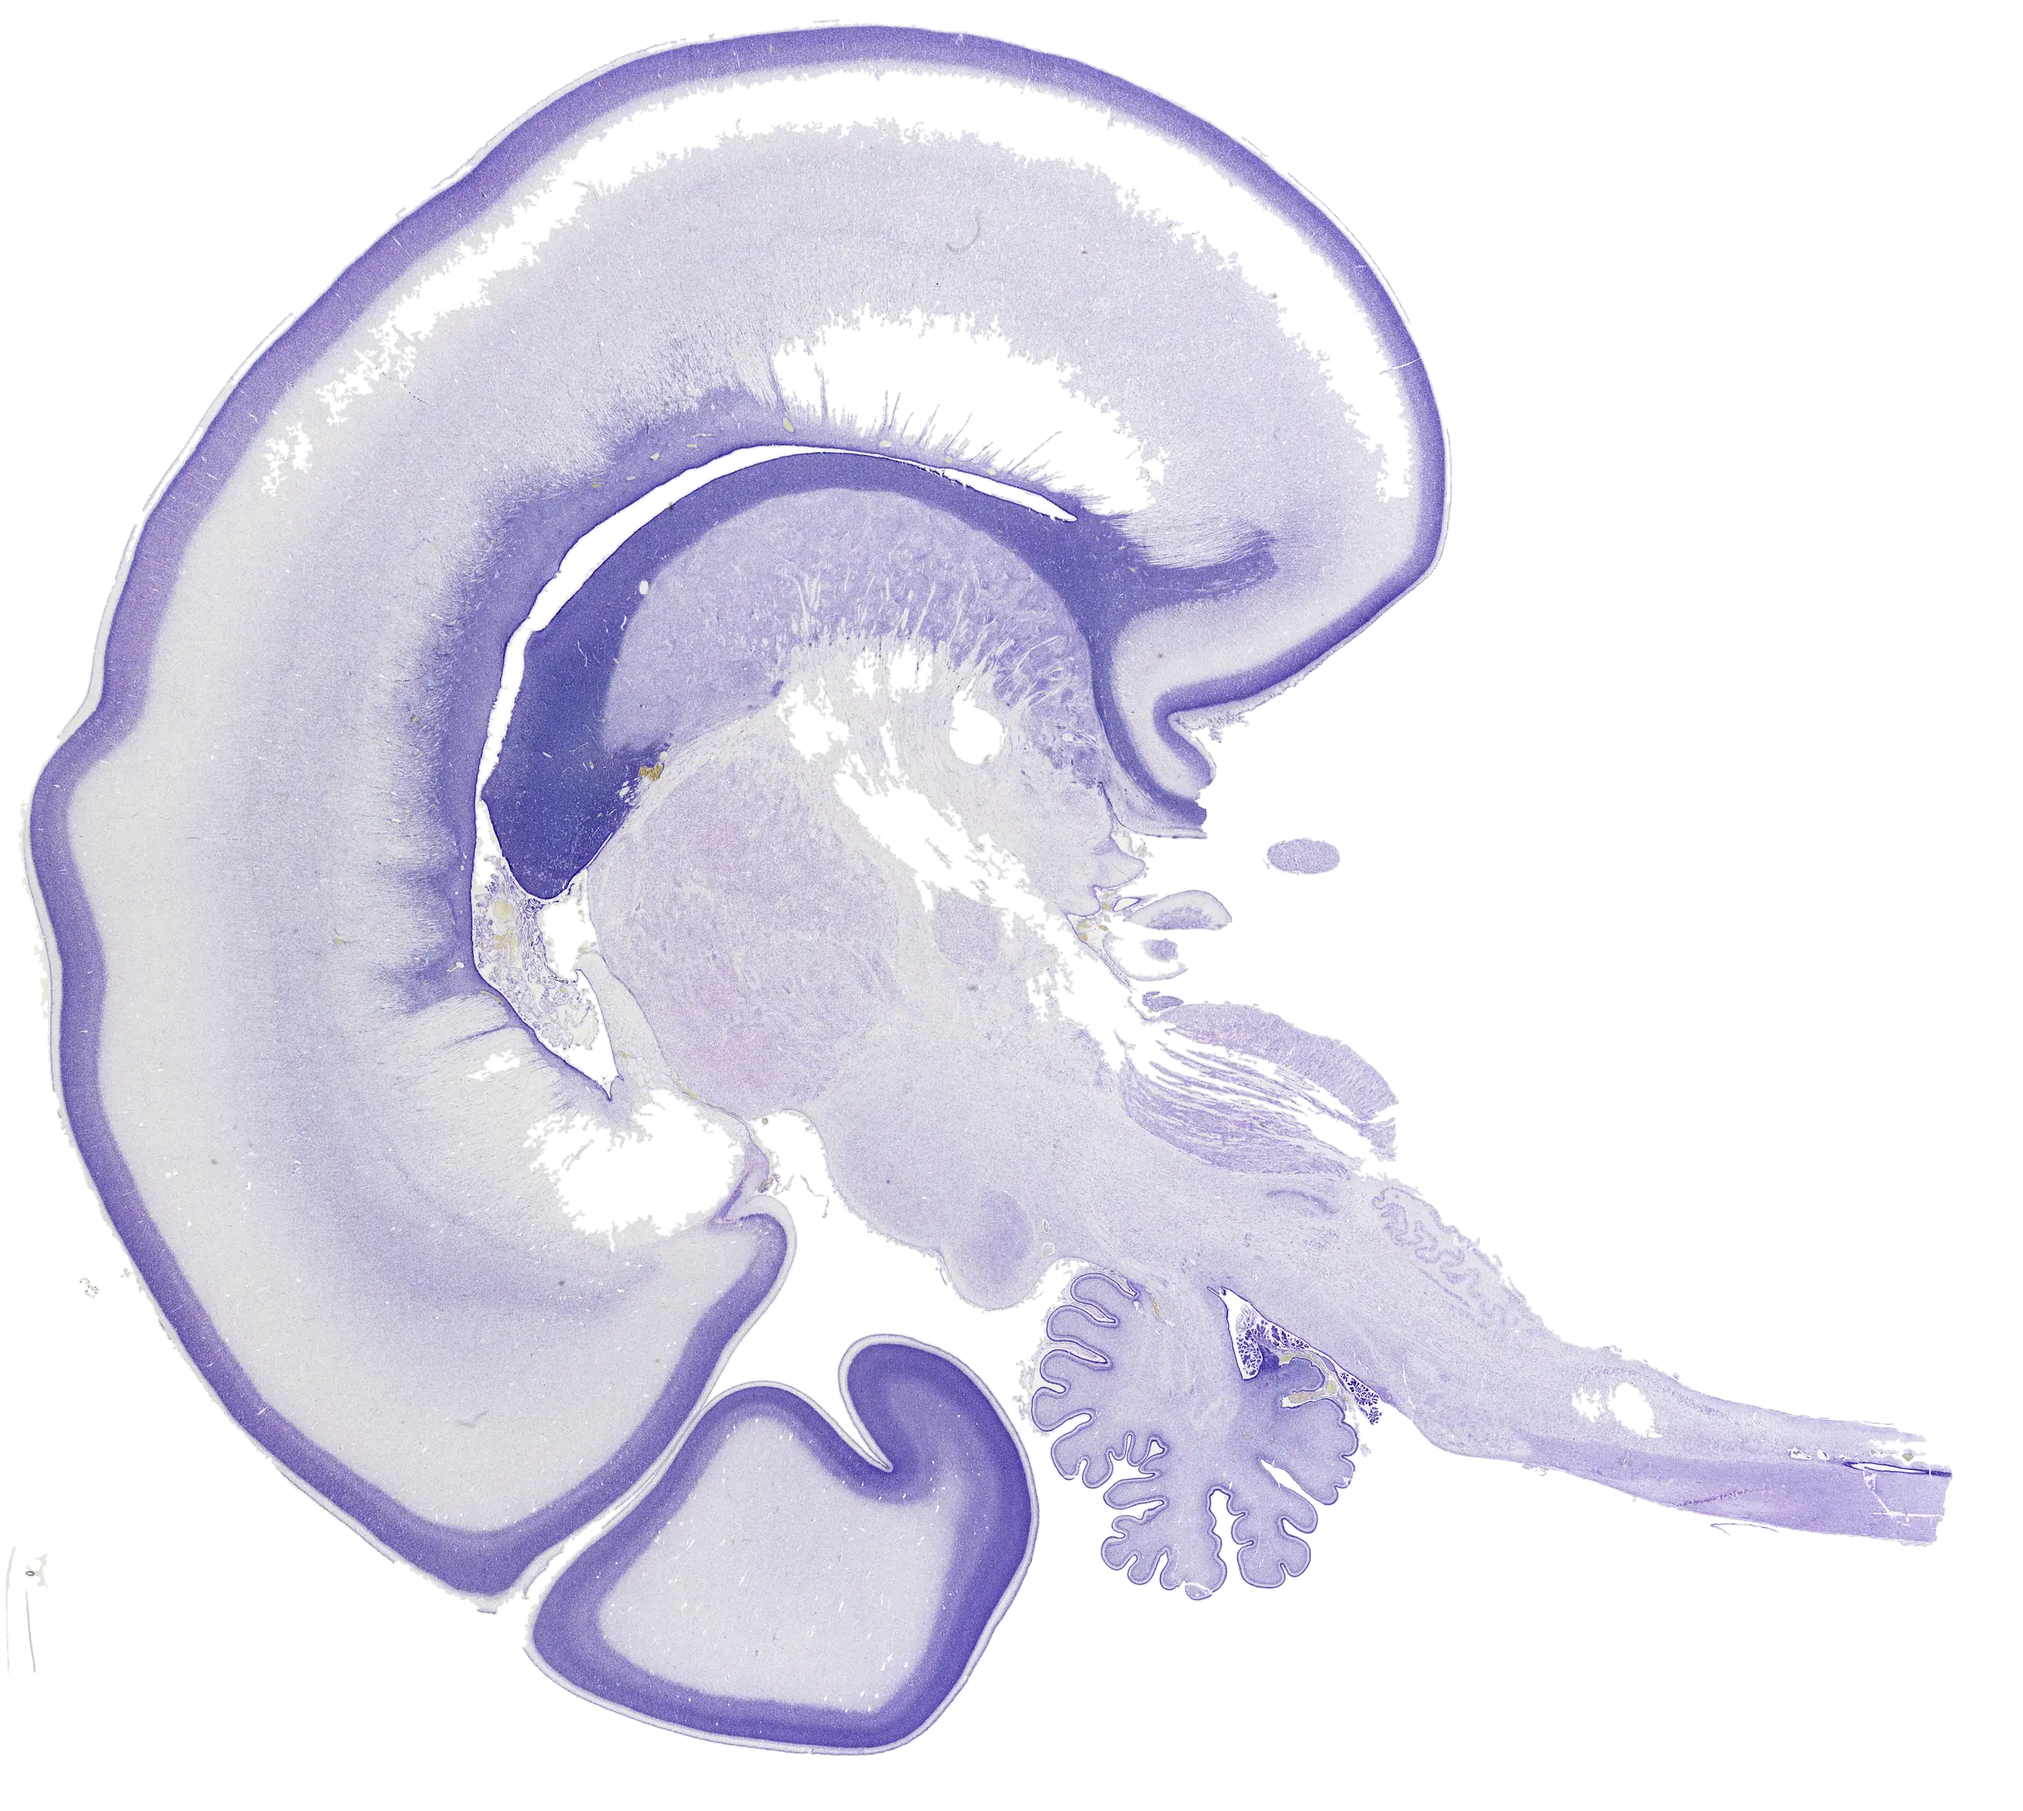
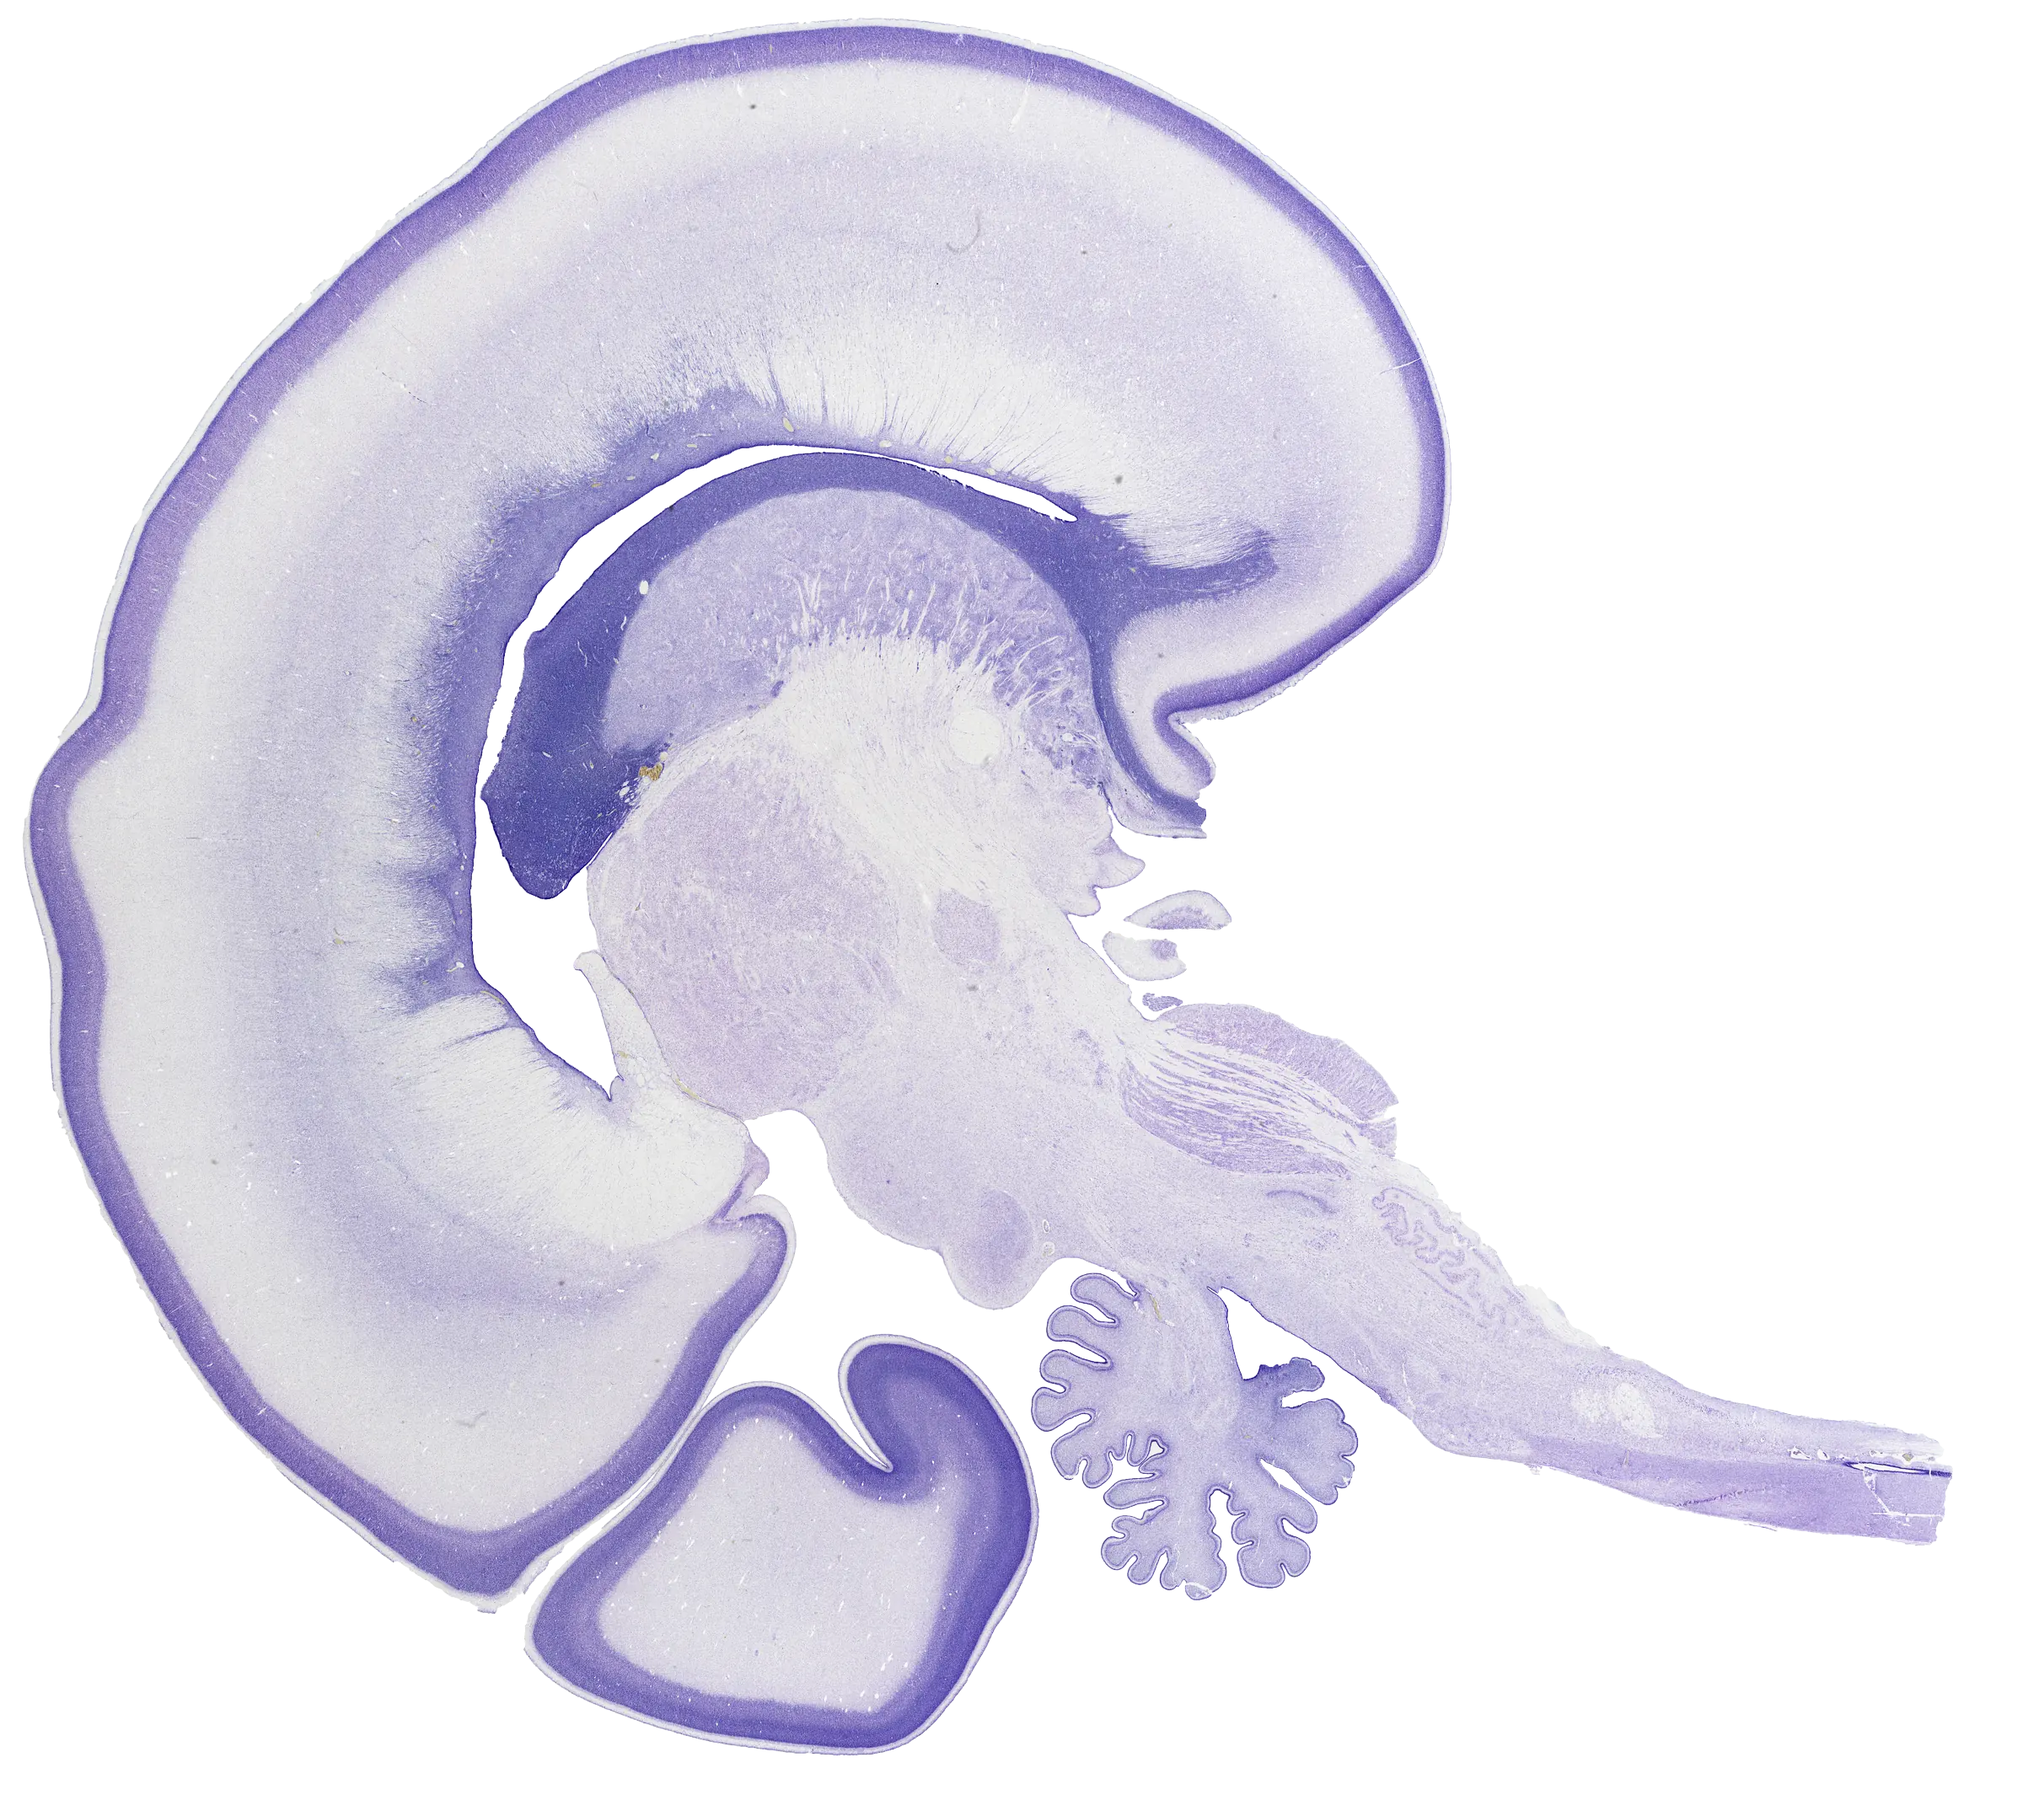
Centre the column again; tissue-only zooms from the nnU-Net tissue mask
The 100 px left shift is undone (the column is centred, still one left edge for every
block). Both ganglionic-eminence zooms now draw only tissue. The Nissl mask is the
mcmadras nnU-Net tissue model (Dataset510) predicted on this section, the
pseudo-fluorescence mask is the blurred signal; for both, every hole except the
ventricle is filled, loose strands are cut, and the edge comes from a smoothed signed
distance resampled at each zoom level, so it stays smooth from the whole section down
to single cells. Each panel starts without a box and its frame (white or black)
fades in as it zooms; the scale bar follows the page colours until a frame is behind it.

diff --git a/assets/style.css b/assets/style.css
@@ -175,8 +175,8 @@ a.card:hover { border-color: var(--accent); transform: translateY(-2px); text-de
 
 /* Hero: text on a plate on the left, the brain on the right.  The hero, About and the research intro
    share the left edge of the research chapters (the 1240 px column below). */
-/* --shift moves the whole 1240 px column left of centre (try ?shift=0 in the URL to compare) */
-:root { --shift: 100px; }
+/* --shift moves the whole 1240 px column left of centre (0 = centred) */
+:root { --shift: 0px; }
 .hero.wrap, .wrap.wide, .chapter.wrap, .zoom-block.wrap, .scrub-block.wrap, .cyto-figs.wrap {
   max-width: 1240px; width: 100%;
   margin-left: max(0px, calc((100% - 1240px) / 2 - var(--shift))); margin-right: auto;
@@ -250,7 +250,10 @@ a.card:hover { border-color: var(--accent); transform: translateY(-2px); text-de
   width: 100%; height: 100%; display: block; border-radius: 16px;
   border: 1px solid color-mix(in srgb, var(--line) 70%, transparent); background: #fff;
 }
-.zoomer.dark canvas { background: #000; }
+.zoomer.dark canvas {
+  background: color-mix(in srgb, #000 calc(var(--frame, 0) * 100%), transparent);
+  border-color: color-mix(in srgb, var(--line) calc(var(--frame, 0) * 100%), transparent);
+}
 .scrubber canvas { max-width: 100%; max-height: 100%; width: auto; height: 100%; display: block; }
 .zoomer figcaption, .scrubber figcaption, .figure figcaption {
   font-size: .9rem; color: var(--muted); max-width: 70ch;
@@ -262,8 +265,9 @@ a.card:hover { border-color: var(--accent); transform: translateY(-2px); text-de
   font-size: .8rem; color: #fff; text-shadow: 0 0 4px #000; pointer-events: none;
 }
 .scalebar i { display: block; height: 3px; background: #fff; box-shadow: 0 0 3px #000; border-radius: 2px; }
-.zoomer:not(.dark) .scalebar { color: var(--text); text-shadow: 0 0 4px var(--bg); }
-.zoomer:not(.dark) .scalebar i { background: var(--text); box-shadow: 0 0 3px var(--bg); }
+/* the scale bar follows the page colours until a black frame is behind it */
+.zoomer:not(.dark) .scalebar, .zoomer.dark:not(.framed) .scalebar { color: var(--text); text-shadow: 0 0 4px var(--bg); }
+.zoomer:not(.dark) .scalebar i, .zoomer.dark:not(.framed) .scalebar i { background: var(--text); box-shadow: 0 0 3px var(--bg); }
 /* tissue-only zoom: no box at first, the frame appears as it zooms in (--frame set by story.js) */
 .zoomer:not(.dark) canvas {
   background: color-mix(in srgb, var(--surface) calc(var(--frame, 0) * 100%), transparent);

diff --git a/assets/js/story.js b/assets/js/story.js
@@ -68,10 +68,11 @@
       const vh = vw * H / W;
       const s = W / vw;                               // canvas px per unit
       const x0 = cx - vw / 2, y0 = cy - vh / 2;
-      if (fig.classList.contains('dark')) { ctx.fillStyle = '#000'; ctx.fillRect(0, 0, W, H); }
-      else ctx.clearRect(0, 0, W, H);                // tissue only: the glass is transparent in the images
+      ctx.clearRect(0, 0, W, H);                     // tissue only: the glass is transparent in the images
       // the frame around the view fades in as the zoom starts, so the zoomed view reads as a window
-      fig.style.setProperty('--frame', smooth(0.15, 0.45, p).toFixed(3));
+      const frame = smooth(0.15, 0.45, p);
+      fig.style.setProperty('--frame', frame.toFixed(3));
+      fig.classList.toggle('framed', frame > 0.5);
       ctx.imageSmoothingQuality = 'high';
       for (const l of levels) {
         if (!l.img) continue;

diff --git a/index.html b/index.html
@@ -328,9 +328,6 @@
   </footer>
   <script>
     document.getElementById('year').textContent = new Date().getFullYear();
-    // preview helper: ?shift=0 (or any px) overrides how far the column sits left of centre
-    const shift = new URLSearchParams(location.search).get('shift');
-    if (shift !== null && !isNaN(+shift)) document.documentElement.style.setProperty('--shift', (+shift) + 'px');
   </script>
   <!-- Animated neuronal network background (creates its own canvas) -->
   <script src="assets/neuro.js"></script>

diff --git a/tools/media_alpha.py b/tools/media_alpha.py
@@ -1,0 +1,127 @@
+"""Tissue-only zoom levels (transparent glass) for the two section zooms of the ganglionic eminence chapter.
+
+Nissl, 24 GW (DHARANI FB85 = mcmadras sub-005, SE 1138): the tissue mask is the mcmadras nnU-Net tissue model
+(Dataset510, tight masks) predicted on the 16 um MINC of this section and mapped onto the JP2 frame (MINC = JP2
+turned 90 deg and mirrored; correlation 0.92).  Pseudo-fluorescence: glass is black, so the mask is the blurred
+signal at 16 um.
+
+For both: keep the brain and tissue pieces near it, fill every hole except the ventricles (holes > HOLE_MM2), then
+draw the alpha from a smoothed signed distance to that outline, resampled at each zoom level, so the edge is a
+smooth anti-aliased curve at every scale instead of a jagged threshold.
+
+usage: python media_alpha.py SITE_DIR NNUNET_MASK.npy
+
+NNUNET_MASK.npy (bool, JP2 frame at 16 um) was made with the mcmadras tissue model:
+  mask_nnunet/scripts/mnc_nii.py to_nii IN s005_ madras_run/sub-005/histo16um/sub-005_nissl_16um_1138.mnc
+  nnUNetv2_predict -d 510 -c 2d -f 0 -tr nnUNetTrainer_100epochs -p nnUNetPlans -chk checkpoint_final.pth -i IN -o OUT
+  then the predicted (x, y) NIfTI transposed to (y, x), turned np.rot90(k=1) and flipped up-down onto the JP2 r5 frame.
+"""
+import os, sys, json, subprocess, tempfile
+os.environ.setdefault("OMP_NUM_THREADS", "8")
+import numpy as np
+import tifffile, zarr
+from PIL import Image
+from scipy import ndimage as ndi
+from skimage import morphology
+Image.MAX_IMAGE_PIXELS = None
+SITE, NISSL_MASK = sys.argv[1], sys.argv[2]
+OPJ = "/home/users/jignesh/miniconda3/envs/nisslprop/bin/opj_decompress"
+TMP = tempfile.mkdtemp()
+PX16 = 16.0                    # um per pixel of the coarse masks
+HOLE_MM2 = 1.5                 # holes larger than this stay open (ventricles)
+NEAR_MM = 1.5                  # pieces farther than this from the brain are dropped (glass specks, labels)
+
+def clean(m, hole_mm2=HOLE_MM2, open_r=1):
+    """brain + nearby pieces, holes filled except the large ones"""
+    px_mm2 = (PX16 / 1000) ** 2
+    m = morphology.remove_small_objects(m, max_size=int(0.3 / px_mm2))
+    lab, n = ndi.label(m)
+    if n > 1:
+        sizes = ndi.sum(m, lab, range(1, n + 1))
+        brain = lab == 1 + int(np.argmax(sizes))
+        near = ndi.distance_transform_edt(~brain) * PX16 / 1000 < NEAR_MM
+        keep = np.unique(lab[near & m]); m = np.isin(lab, keep[keep > 0])
+    # cut thin strands (loose fibres, threads) before filling holes, since a strand that loops back to the brain
+    # would enclose a "hole" and be filled solid; the outline within 3 px of the opened shape is given back
+    m = m & ndi.binary_dilation(morphology.opening(m, morphology.disk(open_r)), morphology.disk(3)) if open_r > 1 \
+        else morphology.opening(m, morphology.disk(open_r))
+    m = morphology.remove_small_objects(m, max_size=int(0.3 / px_mm2))
+    return morphology.remove_small_holes(m, max_size=int(hole_mm2 / px_mm2))
+
+def sdf(m):
+    """signed distance in um (positive inside), smoothed so the 16 um staircase disappears"""
+    d = ndi.distance_transform_edt(m) - ndi.distance_transform_edt(~m)
+    return ndi.gaussian_filter(d.astype(np.float32), 1.2) * PX16
+
+def alpha_for(sd, box16, size_wh, um_px):
+    """alpha for an output image of size_wh covering box16 (x0, y0, x1, y1 in coarse-mask pixels)"""
+    w, h = size_wh
+    x0, y0, x1, y1 = box16
+    xs = x0 + (np.arange(w) + 0.5) * (x1 - x0) / w - 0.5
+    ys = y0 + (np.arange(h) + 0.5) * (y1 - y0) / h - 0.5
+    yy, xx = np.meshgrid(ys, xs, indexing="ij")
+    d = ndi.map_coordinates(sd, [yy, xx], order=3, mode="nearest")
+    edge = max(1.0, 1.1 * um_px)                     # ~1 output pixel of anti-aliasing
+    return np.clip(0.5 + d / edge, 0, 1)
+
+def save_rgba(rgb, a, path, q=76):
+    im = Image.fromarray(np.dstack([rgb, (a * 255).round()]).astype(np.uint8), "RGBA")
+    im.save(path, quality=q, alpha_quality=80, method=6)
+    print(os.path.basename(path), im.size, os.path.getsize(path) // 1024, "KB", flush=True)
+    return im
+
+# ---------------- Nissl, FB85 SE 1138 ----------------
+J85 = "/home/users/jignesh/analytics/244/NISL/B_244_FB85-SL_380-ST_NISL-SE_1138_compressed.jp2"
+W85, H85 = 144472, 129351
+def jp2(r, box):
+    out = os.path.join(TMP, "c.png")
+    subprocess.run([OPJ, "-i", J85, "-o", out, "-r", str(r), "-d", ",".join(map(str, box)), "-threads", "8"],
+                   check=True, stdout=subprocess.DEVNULL, stderr=subprocess.DEVNULL)
+    return Image.open(out).convert("RGB")
+m = clean(np.load(NISSL_MASK))                       # JP2 frame at r5 = 16 um
+sd = sdf(m)
+cx, cy = 36100, 54300
+levels = []
+for name, r, box, size in [("nissl_section", 5, (0, 0, W85, H85), 2400),
+                           ("nissl_ge", 3, (cx - 10000, cy - 10000, cx + 10000, cy + 10000), 1700),
+                           ("nissl_ge_mid", 1, (cx - 3000, cy - 3000, cx + 3000, cy + 3000), 1600),
+                           ("nissl_cells", 0, (cx - 800, cy - 800, cx + 800, cy + 800), 1600)]:
+    im = jp2(r, box); im.thumbnail((size, size), Image.Resampling.LANCZOS)
+    um_px = (box[2] - box[0]) * 0.5 / im.width
+    a = alpha_for(sd, [v / 32 for v in box], im.size, um_px)
+    save_rgba(np.asarray(im), a, f"{SITE}/assets/img/ge/{name}.webp")
+    levels.append(dict(src=f"assets/img/ge/{name}.webp", rect=[box[0] / W85, box[1] / H85, box[2] / W85, box[3] / H85],
+                       px=list(im.size)))
+json.dump(dict(aspect=W85 / H85, levels=levels), open(f"{SITE}/assets/img/ge/nissl_zoom.json", "w"), indent=1)
+
+# ---------------- pseudo-fluorescence (stored frame; turned 90 deg clockwise for display) ----------------
+F = "/home/users/jignesh/neuroglancer/ihc_pair_registered/pseudofluor_DCXgreen_S100bred_0p5um.tif"
+t = tifffile.TiffFile(F)
+H0, W0 = t.pages[0].shape[:2]
+def region(level, x0, y0, x1, y1):
+    z = zarr.open(t.aszarr(level=level), mode="r"); f = 2 ** level
+    return np.asarray(z[y0 // f:y1 // f, x0 // f:x1 // f])
+coarse = region(5, 0, 0, W0, H0).astype(np.float32)          # 16 um
+sig = ndi.gaussian_filter(coarse.max(-1), 2.0)
+# dim bands of the cortex sit just above the black glass, and the ventricle here is ~36 mm2: a lower threshold,
+# holes up to 10 mm2 filled, and a wider opening that removes the loose fibre trailing off the section
+thr = float(os.environ.get("PF_THR", 8))
+mp = clean(sig > thr, hole_mm2=10.0, open_r=10)
+sdp = sdf(mp)
+print("pseudofluor tissue fraction", round(mp.mean(), 3), "threshold", thr)
+levels = []
+gain = {"pf_section": 1.55, "pf_ge": 1.25}
+for name, lvl, box, size in [("pf_section", 5, (0, 0, W0, H0), 2400),
+                             ("pf_ge", 3, (32000, 34000, 56000, 58000), 1800),
+                             ("pf_ge_mid", 1, (40416, 35712, 48416, 43712), 1800),
+                             ("pf_cells", 0, (43416, 38712, 45416, 40712), 2000)]:
+    im = Image.fromarray(region(lvl, *box)); im.thumbnail((size, size), Image.Resampling.LANCZOS)
+    rgb = np.clip(np.asarray(im).astype(np.float32) * gain.get(name, 1.0), 0, 255)
+    um_px = (box[2] - box[0]) * 0.5 / im.width
+    a = alpha_for(sdp, [v / 32 for v in box], im.size, um_px)
+    out = save_rgba(rgb, a, f"{SITE}/assets/img/ge/{name}.webp")
+    out.transpose(Image.Transpose.ROTATE_270).save(f"{SITE}/assets/img/ge/{name}.webp", quality=76, alpha_quality=80, method=6)
+    # display frame (clockwise 90): x' = H - y, y' = x
+    levels.append(dict(src=f"assets/img/ge/{name}.webp",
+                       rect=[(H0 - box[3]) / H0, box[0] / W0, (H0 - box[1]) / H0, box[2] / W0], px=[im.height, im.width]))
+json.dump(dict(aspect=H0 / W0, levels=levels), open(f"{SITE}/assets/img/ge/pf_zoom.json", "w"), indent=1)
